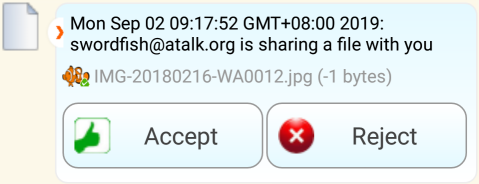
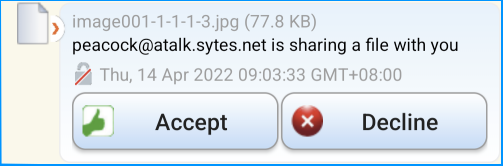
add Jingle File Transfer/JET

Changed region(s): [[0.0, 0.0, 1.0, 1.0], [0.1169, 0.3614, 0.8184, 0.512]]

diff --git a/atalk/faq.html b/atalk/faq.html
@@ -114,8 +114,8 @@ ul li {
          <li><a href=#feature_09>[20200330] XEP-0048: Bookmarks and autoJoin option for conference</a></li>
          <li><a href=#feature_10>[20191004] XEP-0070: Verifying HTTP Requests via XMPP and WebView Implementation</a></li>
          <li><a href=#feature_04>[20190526] Stickers, Bitmoji and Emoji rich content sharing </a></li>
-         <li><a href=#feature_05>[20200714] aTalk Fault-Tolerance File Sharing Implementation &amp; Enhancements </a></li>
-         <li><a href=#feature_10>[20200417] Text to Speech and speech recognition in chat/groupchat session</a></li>
+         <li><a href=#feature_05>[20220414] aTalk Fault-Tolerance File Sharing Implementation &amp; Enhancements </a></li>
+         <li><a href=#feature_10>[20200417] Text to Speech and speech recognition in chat/groupChat session</a></li>
          <li><a href=#feature_11>[20191218] Share, Quote and Forward of messages and media contents</a></li>
          <li><a href=#feature_12>[20200619] aTalk Heads-Up Notification and Quiet-Hours</a></li>
          <li><a href=#feature_13>[20200619] aTalk Notification Events</a></li>
@@ -126,15 +126,15 @@ ul li {
      </ul>
       <h4>OMEMO Messaging</h4>
       <ul>
-         <li><a href=#omemo_01>[20200714] Why the OMEMO option is grayed out in my chat session menu?</a></li>
+         <li><a href=#omemo_01>[20200714] Why the OMEMO option is greyed out in my chat session menu?</a></li>
          <li><a href=#omemo_02>[20190916] Why am I being asked to authenticate the contact during secured chat?</a></li>
          <li><a href=#omemo_03>[20190716] What is Blind Trust Before Verification?</a></li>
-         <li><a href=#omemo_04>[20190716] When do I have to perform "Regenerate Omemo identity"?</a></li>
+         <li><a href=#omemo_04>[20190716] When do I have to perform "Regenerate OMEMO identity"?</a></li>
       </ul>
      <h4>OTR Messaging</h4>
       <ul>
          <li><a href=#otr_01>[20190716] What are the OTR version supported by aTalk?</a></li>
-         <li><a href=#otr_02>[20190716] Why the OTR option is grayed out in my chat session menu?</a></li>
+         <li><a href=#otr_02>[20190716] Why the OTR option is greyed out in my chat session menu?</a></li>
       </ul>
      <h4>Media Call Communications</h4>
       <ul>
@@ -187,12 +187,12 @@ ul li {
        <li><b>Pull Down Menu</b>: Each menu is usually accompanied with other user selectable options. These options are
          accessed via tool icons shown in the navigation bar, or pull down for menu overflow options. On some older
          android device, there is a dedicated Menu button.</li>
-       <li><b>Chat/Info Access</b>: Some of the information or aTalk feature is accessed via a quick touch/clik on the
+       <li><b>Chat/Info Access</b>: Some of the information or aTalk feature is accessed via a quick touch/click on the
          item or displayed icon on the view page e.g. presence status icon, call buttons and avatar etc. Click on the
          contact or chat room listed item launches the chat session.</li>
        <li><b>Context Menu</b>: All aTalk context menus are accessed via long click/press on the item. Long press on
          contact item in the main menu will pop up the context menu e.g. to activate Text->Speech for incoming message
-         during the chat chat session. <a href=#feature_10>Text to Speech and speech recognition in chat/groupchat session</a></li>
+         during the chat chat session. <a href=#feature_10>Text to Speech and speech recognition in chat/groupChat session</a></li>
        <li><b>Heads-up Notification</b>: When there is an incoming call or an incoming message, a heads-up notification
          will pop-up. The heads-up notification is used by user to answer or dismiss an incoming call. In the case of
          the incoming message, the heads-up notification allow user to mark the message as read, or directly reply to
@@ -219,25 +219,28 @@ ul li {
      chat session viewPager group. All the active chat sessions remain in viewPager until user closes the chat. When
      there are more than one active chat sessions, user may navigate between all active chat sessions by slide right/left
      gesture to navigate without exit the chat session view.</div>
-   <div class='innerText'><image src="./img/atalk_chat_viewpager.png" align="right" width="30%" style="margin:5px 0px 20px 15px"/></div>
 
    <div class='innerText'><b>Heads-up Notification</b></div>
-   <div class='innerText'>Both aTalk incoming call and incomming message use anroid heads-up notifications as an UI
+   <div class='innerText'>Both aTalk incoming call and incoming message use android heads-up notifications as an UI
      interface for user action. In order for these two heads-up UI's to work properly, user must ensure both the android
-     notifications for alert (sound) and popo-up are enabled; set the sound to 'Silent' and disable Vibrate, as aTalk
+     <image src="./img/atalk_heads-up_notification_setting.png" align="left" width="30%" style="margin:15px 15px 20px 0px"/>
+     notifications for alert (sound) and pop-up are enabled; set the sound to 'Silent' and disable Vibrate, as aTalk
      has its own ring tone and vibrator handlers. Please refer to the attached screenshots for the correct android
      notification settings. The UI may be different pending on android OS version.</div>
-   <div class='innerText'><image src="./img/atalk_heads-up_notification_setting.png" align="left" width="30%" style="margin:5px 0px 20px 15px"/>
-   <image src="./img/atalk_heads-up_notification_settings.png" align="inline" width="30%" style="margin:5px 0px 120px 30px"/></div>
-   <hr/>
+   <div class='innerText'>
+     <image src="./img/atalk_heads-up_notification_settings.png" align="left-bottom" width="30%" style="margin:15px 0px 120px 30px"/>
+     <image src="./img/atalk_chat_viewpager.png" align="left" width="30%" style="margin:15px 0px 20px 15px"/>
+   </div>
+  
    <!-- ========================= Account setup ====================== -->
+   <hr/>
    <div id='subSection'>Account Setup &amp; Login</div>
 
    <span id='account_01'></span>
    <div class='blueText'>Does aTalk communicate with all the available xmpp clients in the market? <a href=#content>{ Content }</a></div>
    <div class='innerText'>By definition, if an xmpp client implementation follows XMPP standards as defined in 
       XEP's spefications, then it should be able to work with aTalk. A list of all the XEP's supported by aTalk
-      can be viewed in the About dialog box on your installed device or the site: 
+      can be viewed in the About dialogue box on your installed device or the site: 
       <a href="https://github.com/cmeng-git/atalk-android">atalk-android</a>
    </div>
    <div class='innerText'>aTalk has been verified to work with the following xmpp clients e.g.
@@ -264,7 +267,7 @@ ul li {
    </ul>
    
    <div class='innerText'>If you leave the <b>Override server setting</b> option unchecked, aTalk first checks to
-     ensure the specified service domain is reachable; it searches for the actual internet ip address on a Domain Name
+     ensure the specified service domain is reachable; it searches for the actual internet IP address on a Domain Name
      Server (DNS). On success, aTalk proceeds to lookup the SRV record on the server which contains the required
      ip:port network information for connection.</div>
      <div class='innerText'>Initial connection attempt will fail if neither of the following conditions is met, and
@@ -485,7 +488,7 @@ ul li {
    <div class='innerText'>A few points to note when doing IBR registration as most server has the following rules set:
      <ul>
        <li>If you selected IBR but entered mis-spelled user name or password during login, aTalk will also prompt
-          you with an IBR dialog even the account already exists on the server. For security reason, xmpp server
+          you with an IBR dialogue even the account already exists on the server. For security reason, xmpp server
           always throws the same exception i.e &lt;not-authorized/&gt; for both "Invalid username or password"
           and "non-existence" account on server.</li>
        <li>Server will reject IBR registration for an account already exists on the server with:
@@ -547,10 +550,10 @@ ul li {
    <div class='innerText'>In aTalk, when you setup an account and sign in on new server, android OS checks for the site
      certificate validity during the SSL secure socket connection setup. If the site certificate is signed by a trusted
      certificate authority and is also listed in android certified trusted authority list; android proceeds normally
-     with the SSL socket connection, otherwise it throws CertificateException.</div>
+     with the SSL socket connection, otherwise it throws Certificate Exception.</div>
 
     <image src="./img/atalk_certificate_show.png" align="right" width="30%" style="margin:5px 0px 0px 15px"/>
-    <div class='innerText'>aTalk captures this CertificateException thrown by android OS when the certificate is self-signed.
+    <div class='innerText'>aTalk captures this Certificate Exception thrown by android OS when the certificate is self-signed.
       aTalk then downloads the site certificate and check against its database. It prompts user for manual confirmation
       if the certificate is new to aTalk as shown on the right i.e. <b>Certificate Verification.</b>. You can proceed 
       with login by clicking on the <b>Proceed</b> button. Under this condition, the certificate info is not saved
@@ -603,10 +606,10 @@ ul li {
      <ul>
        <li><b>No group:</b> Any unassigned contacts will be group under default <b>Contacts</b> group.</li>
        <li><b>atalk member:</b> Any existing groups will be listed here for selections.</li>
-       <li><b>Create group: </b> The "Add Contact" dialog provides the option to categorize your new contact to
+       <li><b>Create group: </b> The "Add Contact" dialogue provides the option to categorize your new contact to
          one of your existing defined groups or a newly created group.</li>
      </ul>
-    <div class='innerText'>If you select the <b>Create group...</b> option from the previous menu, a new dialog will
+    <div class='innerText'>If you select the <b>Create group...</b> option from the previous menu, a new dialogue will
       appear as shown below. You may entered the new group name in the entry box provided. You may
       perform this grouping or moving to another group after the contact has been added. </div>
       <image src="./img/atalk_contact_group_create.png" align="right" width="30%" style="margin:5px 0px 0px 15px"/>
@@ -624,7 +627,7 @@ ul li {
      this case since the message is delivered via s2s network connection.</div>
    <image src="./img/atalk_contact_presence_approval.png" align="right" width="30%" style="margin:5px 0px 0px 15px"/>
    <div class='innerText'>When you receive the Presence Subscription Request from your buddy via the hosted server, an 
-     <b>Authorization Request</b> dialog is launched for your approval. You may Ignore, Deny or Authorize the request.
+     <b>Authorization Request</b> dialogue is launched for your approval. You may Ignore, Deny or Authorize the request.
      If you accept your buddy request, reciprocally a Presence Subscription Request will be reverted by aTalk to your
      buddy for approval. Meantime your buddy will receive the acknowledgment of your acceptance.</div>
   <div class='innerText'>In the event if you choose to ignore your buddy request; any further re-authorization request
@@ -657,7 +660,7 @@ ul li {
      The continuous mode update is triggered by two parameters changes i.e. <b>distance delta</b> or <b>elapsed time</b>.
      Either condition will trigger a new location fix fetch. The user selectable distance range varies from 0~500m
      with 5m steps; while the elapse time can range from 5~1000S in 10S interval. In continuous mode, user may choose
-     only to send the location messages without displaying the realtime updates of streetViews and map information.
+     only to send the location messages without displaying the real-time updates of streetViews and map information.
      This is done by not selecting the <b>Continuous StreetViews &amp; Map update</b> option to conserve data usage.</div>
    <div class='innerText'>On the streetViews and map display screen, you can select (press and hold) the little orange
      man figure and then drag to a new location on the display map, the streetView display will also be updated
@@ -678,10 +681,10 @@ ul li {
    </div>
    <div class='innerText'><b>Locations playback animation:</b> If you have the location history messages in the
      chat window, long press <b>SteetView &amp; Map</b> button on any of location messages starts the location
-     playback animation at interval of 2S. The playback anmiation either applies to incoming or outgoing messages
+     playback animation at interval of 2S. The playback animation either applies to incoming or outgoing messages
      grouping pending on which message you have initiated the playback animation mode.</div>
    <div class='innerText'><b>GPS Location Demo:</b> The feature has a built-in demo. Long press the
-     <b>Cont. Location update (xm) @xSec</b> button starts the GeoLocation in demo mode. The streetViews and map
+     <b>Cont. Location update (xm) @xSec</b> button starts the Geo-Location in demo mode. The streetViews and map
      will continuous get updated at 2S interval assuming user is moving in the north-west direction. If you enable
      this demo while in chat mode with another device as your buddy, you can see that the buddy device tracks
      and synchronizes the streetViews and map display following the user device.
@@ -689,14 +692,14 @@ ul li {
    <div class='innerText'>Followings are some possible use of the StreetViews & Map feature:</div>
      <ul>
        <li>Allow your love one at home to virtual travel with you while you are visiting places on tour. Sharing nice
-         scenery viedo without consumming big data usage.</li>
-       <li>When you are back from traveling, you can play back the location messages. A sweet memory recall or share
+         scenery video without consuming big data usage.</li>
+       <li>When you are back from travelling, you can play back the location messages. A sweet memory recall or share
          with friends of all the places you have visited.</li>
-       <li>Lost your way while visiting your friend? Just share your gps-location and start a voice call. Your friend
+       <li>Lost your way while visiting your friend? Just share your GPS-location and start a voice call. Your friend
          can guide you until you have safely arrived at the destination.</li>
        <li>In the remote chance that you are in trouble; just start the continuous location update to activate the 
          location streaming. Your love one can track your location and help will be on the way.</li>
-       <li>standalone feature without sending location messages: Travel alone and lost your direction bearing?
+       <li>stand-alone feature without sending location messages: Travel alone and lost your direction bearing?
          Just enable the feature, realign your current location and direction using the streetViews and map information.
          This should help you to avoid unnecessary walking in the wrong direction.</li>
      </ul> 
@@ -778,14 +781,14 @@ ul li {
      rejoin the room at a later time. If you edited the room name in the selector, aTalk will proceed to create a new
      room when you click the <b>Join</b> button. The creation of a new room may fail if you do have the privilege to do so.</div>
    <div class='innerText'><b>Converting 1:1 chat into a group chat:</b> While in a chat session with a buddy, there may
-     a need to have more people to join the dicussion i.e. convert a 1:1 chat session into a multi-user conference.
+     a need to have more people to join the discussion i.e. convert a 1:1 chat session into a multi-user conference.
      To do this, just select <b>Invite</b> option from the pull-down menu; you then add the existing buddy and other
      contacts to the chat room. A new chat room will be created, and invitation sent to all the participants selected.
      <br/>Note: the chat history discussed thus far prior to the new room creation are not sent automatically under
      this case. User needs to perform copy and past of any message to share if so desire.</div>
    <div class='innerText'><b>Room configuration:</b> By default, all new rooms created by aTalk support OMEMO chat,
-     hence it is designated as members-only room. However after a new room has been created, you may procced to change
-     the room configuration as required e.g. to include pasword protection and make it a persistent room etc</div>
+     hence it is designated as members-only room. However after a new room has been created, you may proceed to change
+     the room configuration as required e.g. to include password protection and make it a persistent room etc</div>
    <div class='innerText'><b>Note:</b> If you attempt to join a member-only or not public room while you are not in
      the room member list, the process will failed with an error message. You will no be able to receive or send any
      messages in the chat room. Likewise you will receive an error message if you attempt to destroy chatRoom when
@@ -876,12 +879,12 @@ ul li {
          <li>Click the <b>login</b> link on the webpage, login page as shown on the right will be displayed.</li>
          <li>In the <b>Username</b> field, enter the xmpp user account that you are currently login.</li>
          <li>Then clik the <b>Sign In</b> button on the webPage.</li>
-         <li>Via s2s connection, the visting site sends the XMPP Server Requests Confirmation via XMPP protocol. Pending
+         <li>Via s2s connection, the visiting site sends the XMPP Server Requests Confirmation via XMPP protocol. Pending
            whether the entered user account ends with/without a resource; the site sends either an IQ stanza or a Message
            stanza request to the login entity.</li>
          <image src="./img/atalk_http_auth_request.png" align="right" width="30%" style="margin:5px 0px 0px 15px"/>
          <li><b>Http Authorization Request</b> as shown on the left is returned if you have entered the username ends with
-           a resource. A similar one will be shown if the username is entered without a resource attribute, its dialog
+           a resource. A similar one will be shown if the username is entered without a resource attribute, its dialogue
            content is defined by the site admin. The demo site actually supports client that does not implement
            XEP-0070 to just reply chat message with the ID for authorization confirmation.</li>
       </ul>
@@ -923,7 +926,7 @@ ul li {
     to search for the content they would like to share with the buddy.</div>
    <div class='innerText'>Stickers, Bitmoji and Emoji rich content sharing is supported during an 1:1 chat or chatRoom session.</div> 
 
-   <div class='innerText'>Plese refer to the following sites for more information:</div>
+   <div class='innerText'>Please refer to the following sites for more information:</div>
    <ul>
      <li><a href="https://www.adweek.com/digital/googles-gboard-android-app-now-lets-you-send-bitmoji-branded-stickers/">
        Google’s Gboard Android App Now Lets You Send Bitmoji, Branded Stickers</a></li>
@@ -933,11 +936,13 @@ ul li {
    </ul>
 
    <span id='feature_05'></span>
-   <div class='blueText'>[20200714] aTalk Fault-Tolerance File Sharing Implementation &amp; Enhancements <a href=#content>{ Content }</a></div>
+   <div class='blueText'>[20220414] aTalk Fault-Tolerance File Sharing Implementation &amp; Enhancements <a href=#content>{ Content }</a></div>
    <div class='innerText'>aTalk file sharing implementation uses the following XEP protocols:
+     <li><a href="https://xmpp.org/extensions/xep-0234.html">XEP-0234: Jingle File Transfer</a></li>
      <li><a href="https://xmpp.org/extensions/xep-0096.html">XEP-0096: SI File Transfer</a></li>
      <li><a href="https://xmpp.org/extensions/xep-0363.html">XEP-0363: HTTP File Upload</a></li>
      <li><a href="https://xmpp.org/extensions/xep-0264.html">XEP-0264: Jingle Content Thumbnails</a></li>
+     <li><a href="https://xmpp.org/extensions/xep-0391.html">XEP-0391: Jingle Encrypted Transports</a></li>
      <li><a href="https://xmpp.org/extensions/inbox/omemo-media-sharing.html">XEP-xxxx: OMEMO Media Sharing</a></li>
    </div>
    <div class='innerText'>aTalk supports send and receive files for all document types and images. There is an option
@@ -947,38 +952,46 @@ ul li {
      acceptance of file transfer request or stickers sending if the size of the file to be transferred is less than
      or equal to the user defined max file size option.</div>
    <div class='innerText'><image src="./img/atalk_file_sharing.png" align="right" width="30%" style="margin:5px 0px 0px 15px"/></div>
-   <div class='innerText'>aTalk implements fault-tolerance file sharing to ensure reliability. aTalk SI File Transfer
-     protocol supports both the SOCK5 and IBB bytesStream options. During file transfer negotiation, aTalk uses the 
-     agreed SI protocol for sharing the file. However if the agreed SI protocol method failed for reason e.g. client
-     symmetric NAT firewall, aTalk automatically fallback to use <b>HTTP File Upload service</b> to ensure a successful
-     file transfer.</div>
-   <div class='innerText'>In the event if your buddy client e.g conversations, does not support the legacy SI File
-     Transfer protocol, aTalk will automatic proceed to use the <b>HTTP File Upload service</b> to share file with the buddy.</div>
-   <div class='innerText'>When aTalk detects your buddy is offline, it automatically selects the HTTP File Upload
-     faciliity, if the protocol is supported by your xmpp service, to continue with the file transfer.</div>
-   <div class='innerText'>XEP-0096: SI File Transfer specification has no provision to transfer file when you are in
-     a muc/conference chat room. Under this condition, aTalk checks the server for HTTP File Upload service support,
-     and uses it if availabe to support file sharing between chat members in conference room.</div>
+   <div class='innerText'>aTalk implements intelligent fault-tolerance file sharing algorithm. aTalk file sharing methods
+     include the use of <b>Jingle File Transfer</b> and legacy <b>SI File Transfer</b> protocols supporting both the
+     SOCK5 and IBB BytesStreams options; and together with <b>HTTP File Upload service</b> to ensure reliability.
+     Files encryption using OMEMO are supported in both the Jingle File Transfer via XEP-0391: Jingle Encrypted
+     Transports, and HTTP File Upload via XEP-xxxx: OMEMO Media Sharing. aTalk file transfer handling priority is as follow:</br>
+     (online) Jingle File Transfer &#8658 SI File Transfer &#8658 (offline and fallback) HTTP File Upload.</div>
    <div class='innerText'><image src="./img/atalk_file_xfer_prompt.png" align="right" width="30%" style="margin:5px 0px 0px 15px"/></div>
-   <div class='innerText'>aTalk also supports 'OMEMO Media Sharing' protocol. During an OMEMO chat session either in
-     1-1 or muc, all file sharing will be encrypted before sending via <b>HTTP File Upload service</b>.</div>
+   <div class='innerText'>During file transfer negotiation, aTalk uses the agreed protocol per predefined priorty for
+     sharing the file. However if the agreed protocol method failed for reason e.g. client symmetric NAT firewall,
+     aTalk automatically fallback to use <b>HTTP File Upload service</b> to ensure a successful file transfer.</div>
+   <div class='innerText'>In the event if the remote client advertised e.g conversations, but does not support the
+    XEP-0391: JET protocol. The trasfer failed with user retry. aTalk will automatic proceed to use the
+    <b>HTTP File Upload service</b> for the next 10 files sharing with your buddy.</div>
+   <div class='innerText'><image src="./img/atalk_file_xfer_failed.png" align="right" width="30%" style="margin:5px 0px 0px 15px"/></div>
+   <div class='innerText'>When aTalk detects the remote is offline, it automatically selects the HTTP File Upload
+     facility, if the protocol is supported by your xmpp service, to continue with the file transfer.</div>
+   <div class='innerText'>Both XEP-0234: Jingle File Transfer and XEP-0096: SI File Transfer specification have no
+     provision to transfer file when you are in a muc/conference session. Under this condition, aTalk checks the server
+     for HTTP File Upload service support, and uses it if available to support file sharing between muc members.</div>
+   <div class='innerText'>aTalk supports both the <b>Jingle Encrypted Transports</b> and <b>OMEMO Media Sharing</b>
+     protocol. During 1:1 OMEMO chat session, it uses Jingle File Trasfer with JET if supported by the remote client. 
+     In muc OMEMO chat session, all file sharing will be encrypted using <b>OMEMO Media Sharing</b> before sending via
+     <b>HTTP File Upload</b> service.</div>
    <div class='innerText'>aTalk harmonizes and uses a common UI in file sharing, irrespective of which file sharing
      protocols is being used, and in all the various chat sessions. Unlike all other file transfer protocols, when file
      transfer is via <b>HTTP File Upload service</b>, the sender is unaware of the recipient status. After the sender
-     has succcsfully uploaded the file to the server, it forwards the file download link embedded as a chat message
+     has succcesfully uploaded the file to the server, it forwards the file download link embedded as a chat message
      to the recipient. To allow recipient to retrieve the file, aTalk always shows the received file download link as
-     a file transfer request. Selecting the <b>Reject</b> button does not actually delete the file link message. aTalk
+     a file transfer request. Selecting the <b>Decline</b> button does not actually delete the file link message. aTalk
      will show the prompt after user returns to the chat session later, even the user has previously selected the
-     <b>Reject</b> button, either intentionally or unintentionally. To remove the prompt, user must manually select
+     <b>Decline</b> button, either intentionally or unintentionally. To remove the prompt, user must manually select
      and delete the link message/prompt.</div>
 
    <span id='feature_10'></span>
-   <div class='blueText'>[20200417] Text to speech and speech recognition in chat/groupchat session <a href=#content>{ Content }</a></div>
+   <div class='blueText'>[20200417] Text to speech and speech recognition in chat/groupChat session <a href=#content>{ Content }</a></div>
    <div class='innerText'><image src="./img/atalk_tts_settings.png" align="right" width="30%" style="margin:0px 0px 15px 15px"/></div>
    <div class='innerText'>aTalk supports speech synthesis from an incoming chat messages for immediate playback
-     during chat or group chat session. To allow speech syntehsis on an incoming message, user must enable both the
+     during chat or group chat session. To allow speech synthesis on an incoming message, user must enable both the
      global TTS and the specific chat session option for speech playback. The global TTS option is accessed via the
-     main menu <b>General TTS settins...</b>. The main TTS settings menu provides the following options:</div>
+     main menu <b>General TTS settings...</b>. The main TTS settings menu provides the following options:</div>
      <ul>
        <li><b>Default TTS voice:</b> displays the current selected voice speech. During playback of the text message,
          android auto-detect the text language type and playback with the correct spoken language. However android
@@ -993,21 +1006,21 @@ ul li {
        <li><b>General TTS settings...</b> Select this option to enter the android OS <b>Text-to-speech output</b>
          configuration menu as shown on the right. The menu allows user to select his/her desired voice output, the
          playback rate and pitch of the speech. If the user selected language resource is not found on the device,
-         android will procced to download the required voice synthesis files. Other More advance voice options can be
+         android will proceed to download the required voice synthesis files. Other More advance voice options can be
          accessed via the <b>Setting</b> icon. Click the <b>Play</b> button to play back a short demo message.</li>
        <div class='innerText'><image src="./img/atalk_tts_output.png" align="right" width="30%" style="margin:0px 0px 15px 15px"/></div>
        <li><b>Demo text entry box:</b></li> User may copy some longer message text from e.g. web browser and paste
-         them in this entry box, to be playbacked or coverted and save into a voice file.</li>
+         them in this entry box, to be play backed or converted and save into a voice file.</li>
        <li><b>Save</b> Save the demo text synthesized speech into the a voice file.</li>
        <li><b>Play</b> Playback the demo text using the user default selected voice output</li>
-       <li><b>OK</b> Exit the user configuraton settins menu.</li>
+       <li><b>OK</b> Exit the user configuration settings menu.</li>
      </ul>
    <div class='innerText'><image src="./img/atalk_tts_enable_opt.png" align="left" width="30%" style="margin:0px 15px 15px 0px"/></div>
    <div class='innerText'>After you have enabled the global TTS option from the main menu, you may now procced to
      enable/disable the TTS operation for the individual chat or group chat session. To enable TTS feature for the
-     desired chat session, long click on the specific contact or chatroom item in the respective item list diplay;
+     desired chat session, long click on the specific contact or chatroom item in the respective item list display;
      a pop-up menu will appear containing the TTS toggle option for user selection. This TTS enable/disable option is
-     also  available during the chat seesion access, that is accessed via the chat session main pull down menu.</div>
+     also  available during the chat session access, that is accessed via the chat session main pull down menu.</div>
    <div class='innerText'>When a chat/group session has the Text to Speech option enabled; aTalk automatically synthesize
      any incoming message text to speech, and playback after the specific delay. When you tab on the message text in
      the incoming or outgoing message view holder, the selected text will also be playback in synthesized voice.</div>

diff --git a/atalk/index.html b/atalk/index.html
@@ -74,14 +74,14 @@
       <li>Support <a href="./faq.html#feature_04">Stickers, Bitmoji and Emoji</a> rich content sharing via Google Gboard</li>
       <li>Send and receive files for all document types and images, with thumbnail preview and gif animation</li>
       <li>Auto accept file transfer request with max file size option</li>
-      <li>Implement <a href="./faq.html#feature_05">fault-tolerance file transfer</a> to ease and enhance file sharing reliability</li>
+      <li>Implement <a href="./faq.html#feature_05">fault-tolerance file transfer</a> algorithm, via Jingle File Transfer, Legacy In-Band/SOCK5 Bytestreams and HttpFileUpload protocols to ease and enhance file sharing reliability</li>
       <li>Enhance and harmonize UI for file sharing in chat and chatRoom</li>
 	    <li>Support share, quote and forward of messages and medias with preview prior to sending</li>
 	    <li>Support multi-instances of audio media player with functions: Play, Pause, Resume, Stop and Seek</li>
       <li>Support unread message badges in contact and chatRoom list views</li>
       <li>User selectable option for heads-up notification and quite hours</li>
-      <li>Support Text to Speech and speech recognition UI with enable option per chat session (contact and group chat)</li>
       <li>Share of social media links are tagged with thumbnail and title</li>
+      <li>Support Text to Speech and speech recognition UI with enable option per chat session (contact and group chat)</li>
       <li>XEP-0012: Last Activity time associated with contacts</li>
       <li>XEP-0048: Bookmarks for conference room and autoJoin on login</li>			  
       <li>XEP-0070: Verifying HTTP Requests via XMPP entity for user authentication without password entry</li>
@@ -90,6 +90,7 @@
 	    <li>XEP-0124: Bidirectional-streams Over Synchronous HTTP (BOSH) with Proxy support</li>
 	    <li>XEP-0178: Use of SASL EXTERNAL with TLS Certificates for client authentication</li>
       <li>XEP-0184: Message Delivery Receipts with user enable/disable option</li>
+      <li>XEP-0391: Jingle Encrypted Transports for OMEMO encrypted media file sharing</li>
       <li>Implement Jabber VoIP-PBX gateway Telephony, allowing PBX phone call via service gateway</li>
       <li><a href="./faq.html#feature_03">Multi-user chat</a> Join or create room with full room configuration support for owner</li>
       <li>Integrated captcha protected room user interface with retry on failure</li>
@@ -106,7 +107,7 @@
       <li><a href="./faq.html#account_04">In-Band Registration</a> with Captcha option support</li>
       <li>Multiple accounts creation</li>
       <li>User selectable Themes support</li>
-      <li>Multi-language UI support (Bahasa Indonesia, English, German, Portugese, Russian, and Spanish).</li>
+      <li>Multi-language UI support (Bahasa Indonesia, English, German, Portuguese, Russian, Slovak and Spanish)</li>
       <li><a href="./faq.html">Online help support</a></li>
 	</ul>
 	</div>
